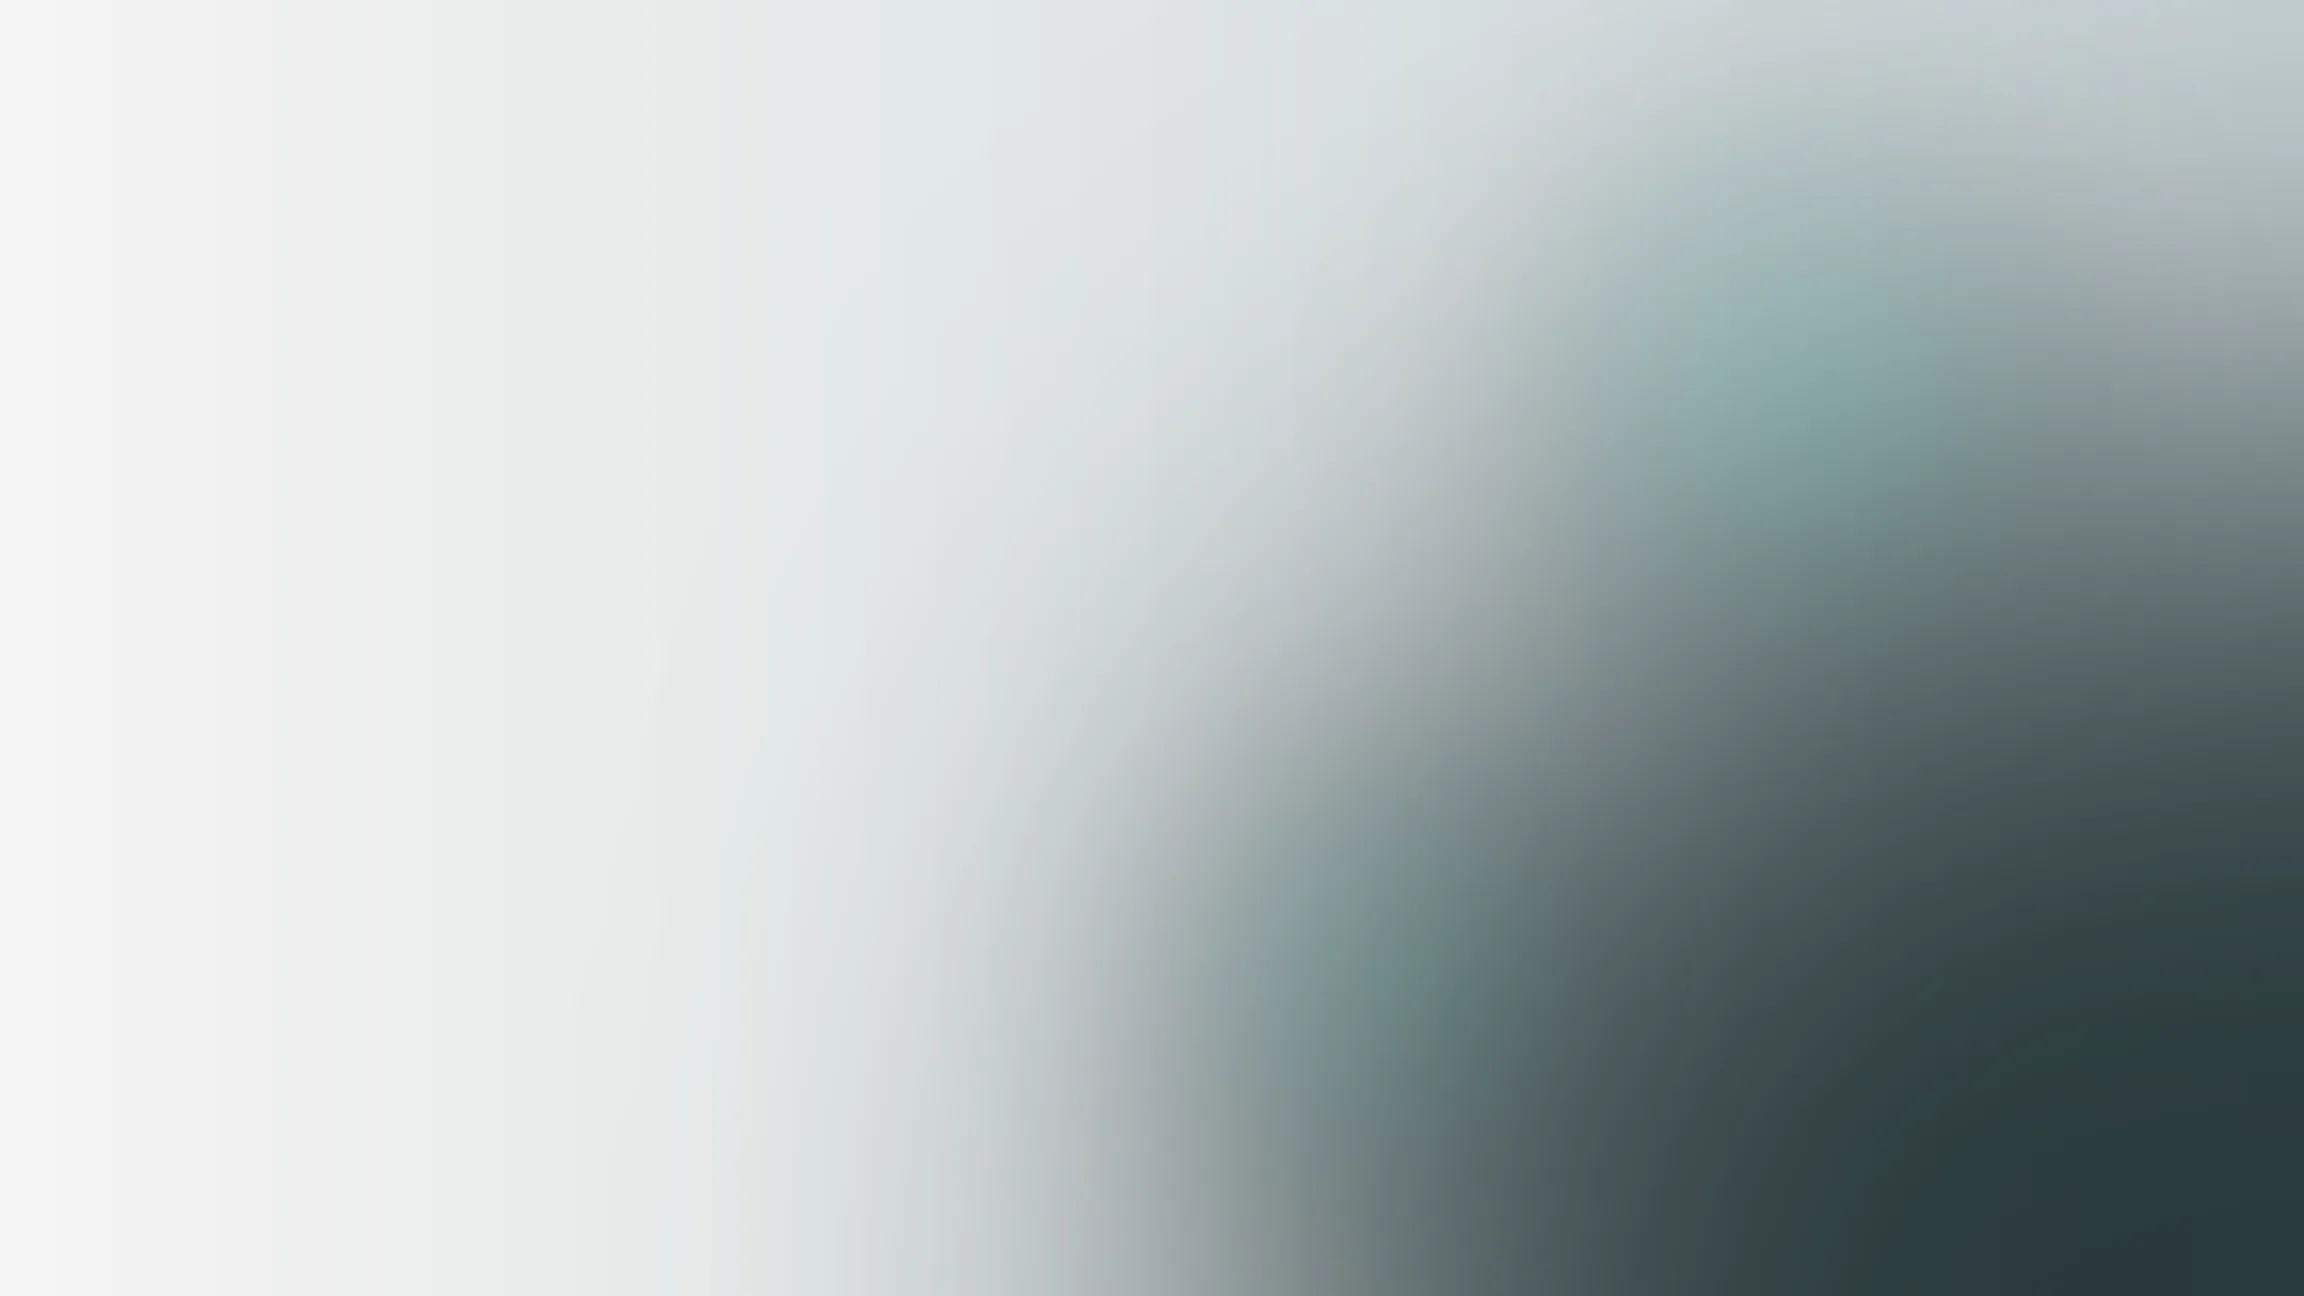
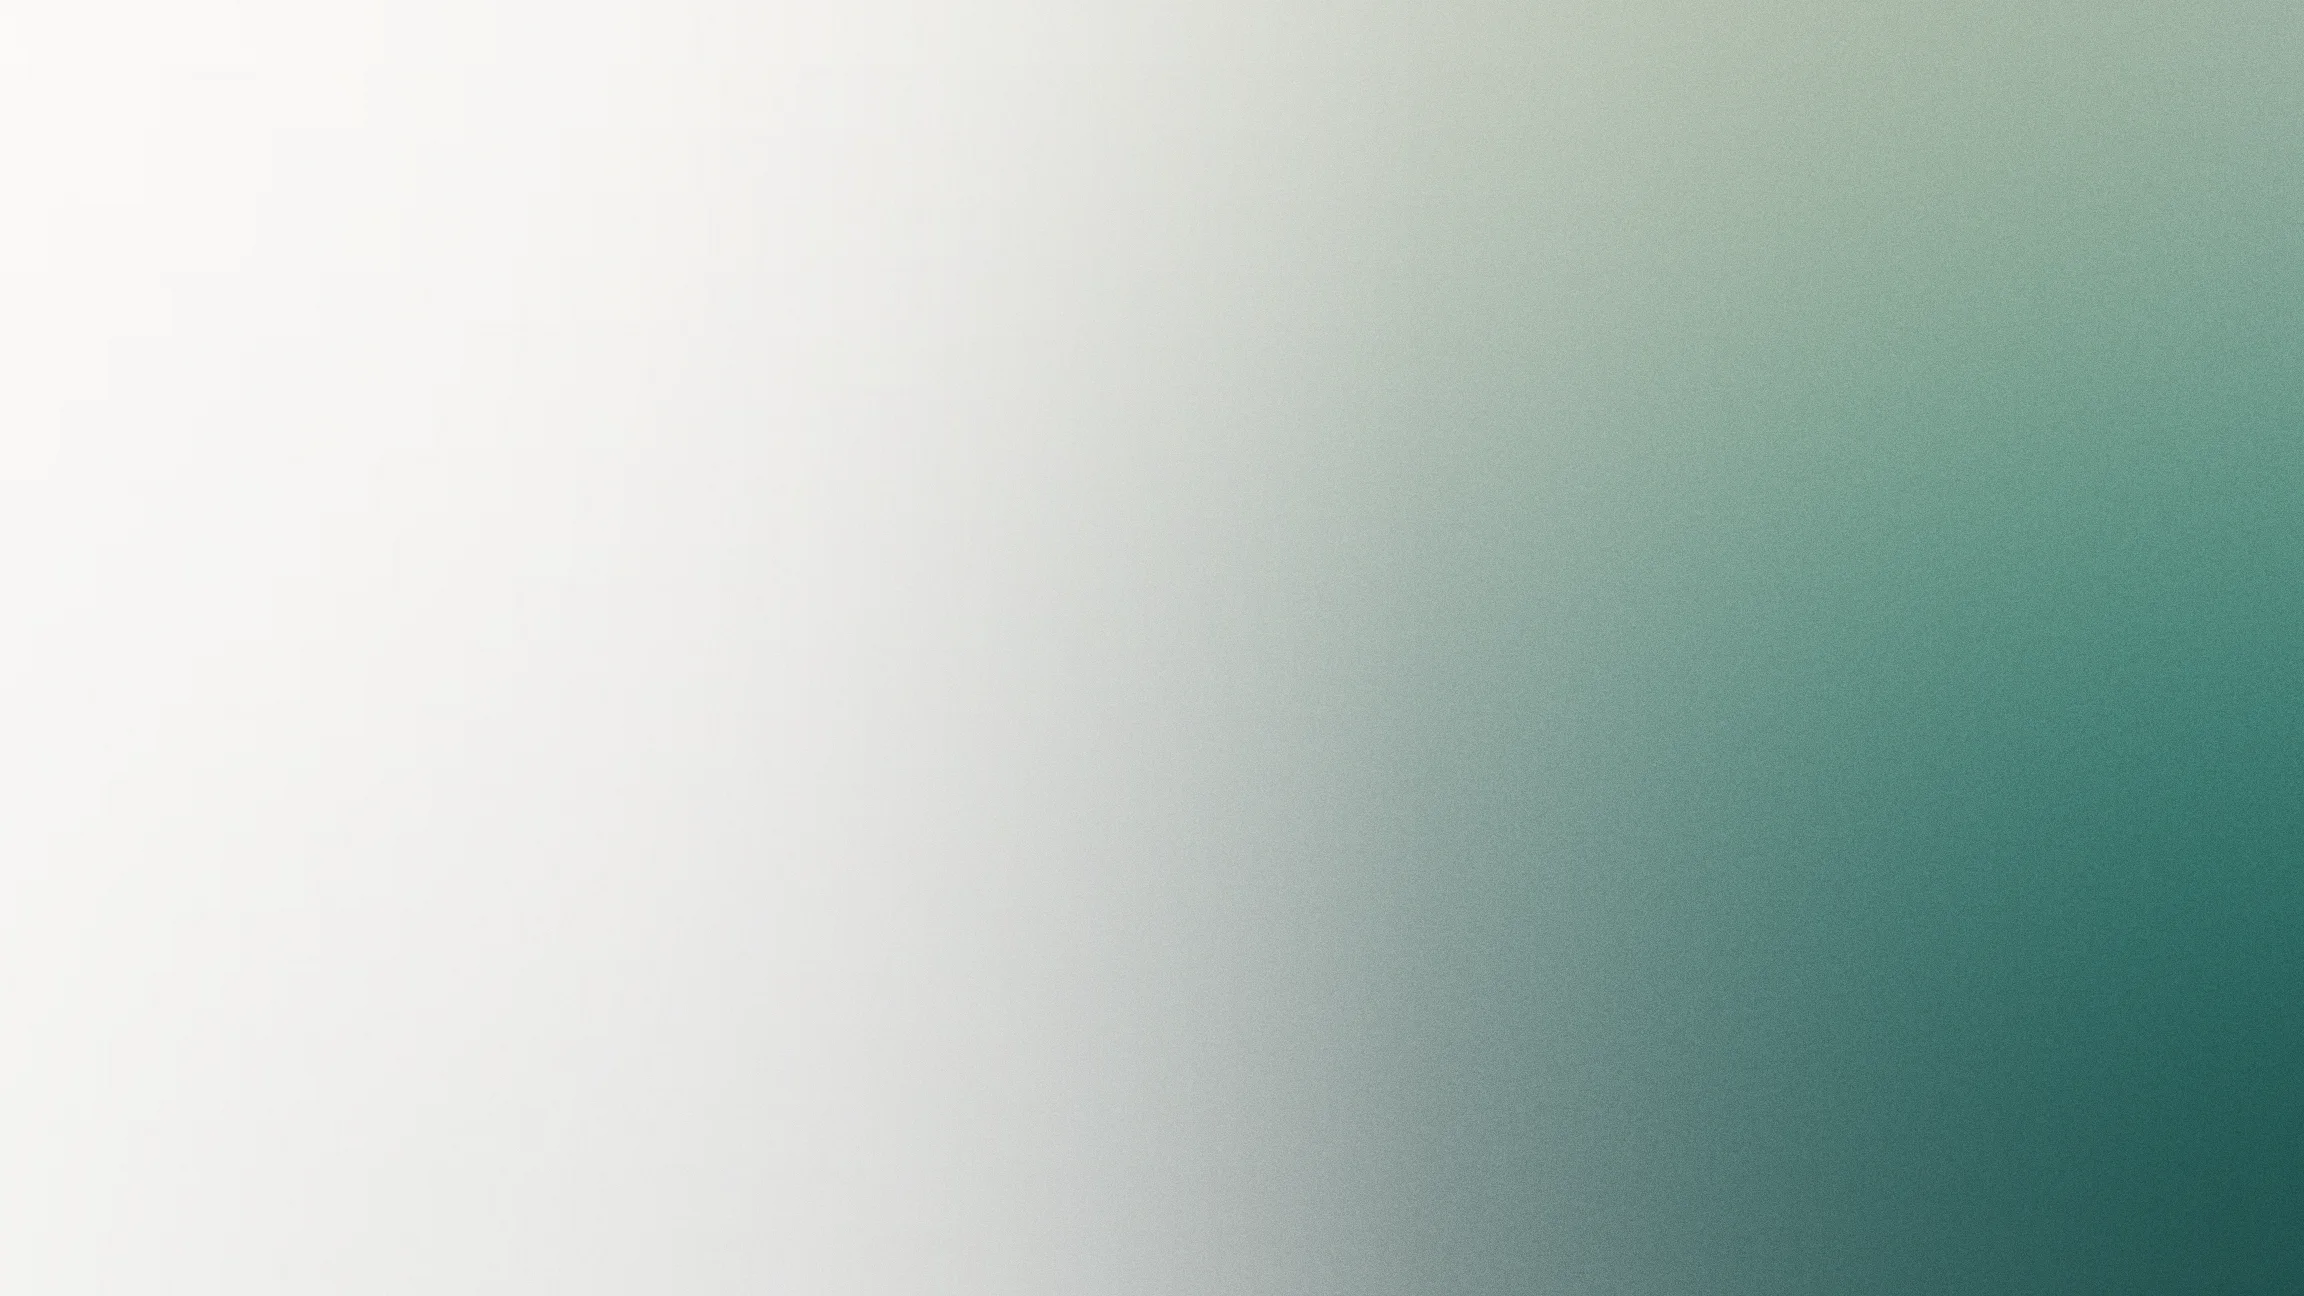
feat: color y vida — arte gradient-mesh teal/esmeralda/ámbar + micro-animaciones (hover lifts, flechas animadas, acentos teal)

diff --git a/src/App.tsx b/src/App.tsx
@@ -211,7 +211,9 @@ function SplashScreen({ onComplete }: { onComplete: () => void }) {
     <div
       className={`fixed inset-0 z-[100] bg-white flex items-end justify-start transition-opacity duration-700 ${exiting ? 'opacity-0' : 'opacity-100'}`}
     >
-      <span className="text-7xl md:text-9xl font-bold tabular-nums p-6 md:p-10 leading-none text-black">
+      <span
+        className={`text-7xl md:text-9xl font-bold tabular-nums p-6 md:p-10 leading-none transition-colors duration-300 ${count >= 100 ? 'text-teal-600' : 'text-black'}`}
+      >
         {count}
       </span>
     </div>
@@ -336,10 +338,11 @@ function SectionHero() {
           cardRef={(el) => {
             cardRefs.current[i] = el
           }}
-          className="w-full h-14 md:h-20 shrink-0 rounded-xl md:rounded-2xl overflow-hidden relative"
+          className="w-full h-14 md:h-20 shrink-0 rounded-xl md:rounded-2xl overflow-hidden relative group cursor-default transition-transform duration-300 hover:scale-[1.01]"
           style={reveal.getAnimStyle(i)}
         >
-          <span className="flex items-center justify-center h-full text-black text-lg md:text-3xl font-bold text-center relative z-10">
+          <span className="flex items-center justify-center gap-3 h-full text-black text-lg md:text-3xl font-bold text-center relative z-10">
+            <span className="w-2 h-2 rounded-full bg-teal-600 opacity-0 scale-0 group-hover:opacity-100 group-hover:scale-100 transition-all duration-300" />
             {label}
           </span>
         </MaskedCard>
@@ -361,7 +364,8 @@ function SectionHero() {
           every dollar it has earned
         </p>
         <div className="absolute bottom-5 left-3 md:bottom-8 md:left-4 z-10">
-          <span className="block text-black text-xs md:text-sm font-semibold mb-1 md:mb-2">
+          <span className="flex items-center gap-2 text-black text-xs md:text-sm font-semibold mb-1 md:mb-2">
+            <span className="w-2 h-2 rounded-full bg-teal-600 animate-pulse" />
             Trusted Medical Billing Partner
           </span>
           <h1 className="text-black text-[clamp(3rem,11vw,11rem)] font-bold leading-[0.79] tracking-tight">
@@ -372,9 +376,10 @@ function SectionHero() {
         </div>
         <a
           href="#contact"
-          className="absolute bottom-6 right-4 md:bottom-10 md:right-8 text-teal-300 text-xs md:text-sm font-semibold z-10"
+          className="group absolute bottom-6 right-4 md:bottom-10 md:right-8 text-teal-300 text-xs md:text-sm font-semibold z-10 flex items-center gap-2"
         >
           Free Billing Audit
+          <span className="inline-block transition-transform duration-300 group-hover:translate-x-1">→</span>
         </a>
       </MaskedCard>
     </section>
@@ -415,7 +420,8 @@ function SectionServices() {
           className="rounded-xl md:rounded-2xl overflow-hidden relative min-h-[160px] md:min-h-0"
           style={reveal.getAnimStyle(0)}
         >
-          <h2 className="absolute top-4 left-5 md:top-6 md:left-7 text-white md:text-black text-2xl md:text-3xl font-bold z-10">
+          <h2 className="absolute top-4 left-5 md:top-6 md:left-7 flex items-center gap-2.5 text-white md:text-black text-2xl md:text-3xl font-bold z-10">
+            <span className="w-2.5 h-2.5 rounded-full bg-teal-600" />
             Our Services
           </h2>
           <p className="absolute bottom-4 left-5 md:bottom-6 md:left-7 text-white md:text-black text-xs md:text-sm font-semibold z-10">
@@ -483,7 +489,7 @@ function SectionServices() {
             {services.map((svc) => (
               <div
                 key={svc.name}
-                className={`flex-1 min-w-[calc(50%-4px)] md:min-w-0 rounded-xl md:rounded-2xl p-3 md:p-5 flex flex-col justify-between ${svc.active ? 'bg-white/90 backdrop-blur-md' : 'bg-white/20 backdrop-blur-xl'}`}
+                className={`flex-1 min-w-[calc(50%-4px)] md:min-w-0 rounded-xl md:rounded-2xl p-3 md:p-5 flex flex-col justify-between transition-all duration-300 hover:-translate-y-1 hover:shadow-xl ${svc.active ? 'bg-white/90 backdrop-blur-md' : 'bg-white/20 backdrop-blur-xl hover:bg-white/30'}`}
               >
                 <h3
                   className={`text-xl md:text-4xl font-bold leading-[1.05] whitespace-pre-line ${svc.active ? 'text-black' : 'text-white'}`}
@@ -512,9 +518,15 @@ function SectionServices() {
 function ArrowIcon({ white = false }: { white?: boolean }) {
   return (
     <span
-      className={`self-end w-9 h-9 md:w-12 md:h-12 rounded-full border flex items-center justify-center ${white ? 'border-white text-white' : 'border-black text-black'}`}
+      className={`self-end w-9 h-9 md:w-12 md:h-12 rounded-full border flex items-center justify-center transition-all duration-300 group-hover:bg-teal-600 group-hover:border-teal-600 group-hover:text-white ${white ? 'border-white text-white' : 'border-black text-black'}`}
     >
-      <svg width="14" height="14" viewBox="0 0 14 14" fill="none" className="rotate-[-45deg]">
+      <svg
+        width="14"
+        height="14"
+        viewBox="0 0 14 14"
+        fill="none"
+        className="rotate-[-45deg] transition-transform duration-300 group-hover:translate-x-0.5 group-hover:rotate-0"
+      >
         <path
           d="M1 7h12m0 0L8 2m5 5L8 12"
           stroke="currentColor"
@@ -549,7 +561,10 @@ function SectionWhyMbl() {
               <br />
               MBL
             </h2>
-            <p className="text-xs md:text-sm font-semibold text-black">Compliance. Transparency. Results.</p>
+            <p className="flex items-center gap-2 text-xs md:text-sm font-semibold text-black">
+              Compliance <span className="w-1.5 h-1.5 rounded-full bg-teal-600" /> Transparency{' '}
+              <span className="w-1.5 h-1.5 rounded-full bg-teal-600" /> Results
+            </p>
           </div>
           <div className="flex gap-1.5 md:gap-2 flex-1 min-h-[140px] md:min-h-0" style={reveal.getAnimStyle(1)}>
             <div className="flex-1 rounded-xl md:rounded-2xl overflow-hidden">
@@ -586,7 +601,7 @@ function SectionWhyMbl() {
         <div className="rounded-xl md:rounded-2xl overflow-hidden relative min-h-[350px] md:min-h-0" style={reveal.getAnimStyle(3)}>
           <img src={SECTION3_BG} alt="Healthcare professional" className="w-full h-full object-cover" />
           <div className="absolute bottom-3 left-3 right-3 md:bottom-5 md:left-5 md:right-5 flex gap-1.5 md:gap-2">
-            <div className="flex-1 bg-white rounded-xl md:rounded-2xl p-3 md:p-5 flex flex-col justify-between h-36 md:h-52">
+            <div className="group flex-1 bg-white rounded-xl md:rounded-2xl p-3 md:p-5 flex flex-col justify-between h-36 md:h-52 transition-transform duration-300 hover:-translate-y-1">
               <h4 className="text-lg md:text-2xl font-bold text-black leading-5 md:leading-7">
                 How We
                 <br />
@@ -596,7 +611,7 @@ function SectionWhyMbl() {
               </h4>
               <ArrowIcon />
             </div>
-            <div className="flex-1 bg-white/20 backdrop-blur-xl rounded-xl md:rounded-2xl p-3 md:p-5 flex flex-col justify-between h-36 md:h-52">
+            <div className="group flex-1 bg-white/20 backdrop-blur-xl rounded-xl md:rounded-2xl p-3 md:p-5 flex flex-col justify-between h-36 md:h-52 transition-transform duration-300 hover:-translate-y-1">
               <h4 className="text-lg md:text-2xl font-bold text-white leading-5 md:leading-7">
                 HIPAA-
                 <br />

diff --git a/DECISIONS.md b/DECISIONS.md
@@ -10,3 +10,9 @@
 7. **Form v1 sin backend** — submit simulado para no bloquear el build visual. Supabase + email = F7. RIESGO conocido: no publicar a producción con form simulado sin avisar al usuario.
 8. **Stats/testimonios del brief NO se usan** hasta decisión del usuario (riesgo FTC). Copy actual usa lenguaje de proceso, no de resultados atribuidos.
 9. `.claude/launch.json` omitido — ruta protegida en la sesión Cowork; sin impacto (npm run dev directo).
+
+## 2026-08-12 — Sesión 2 (feedback: "gris y muerto, falta animación")
+10. **Diagnóstico**: el reference es image-led; los placeholders grises mataban el diseño. Causa raíz = F6 pendiente, no el sistema de diseño.
+11. **Generación IA bloqueada por plan** (Higgsfield: `job_minimum_basic_plan_required` en nano_banana; catálogo de modelos no accesible). Pivote: **arte abstracto premium generado proceduralmente** (gradient-mesh teal/esmeralda/ámbar + grano) respetando zonas de texto del spec §2. F6 queda abierta para swap por fotos IA/reales cuando haya plan o assets del usuario.
+12. **Micro-animaciones añadidas** (dentro de la dirección del reference): splash → contador vira a teal en 100; feature bars → hover lift + dot teal; service cards → hover elevación/sombra; flechas overlay → group-hover fill teal + rotación; CTA hero con flecha animada; dots teal en labels ("Trusted…", "Our Services", "Compliance·Transparency·Results"). Todo con transform/opacity y respetando reduced-motion.
+13. Peso de imágenes subió (~900 KB total por el grano). Aceptable para preview; optimizar en F9 (SEO/performance) si Lighthouse lo pide.
